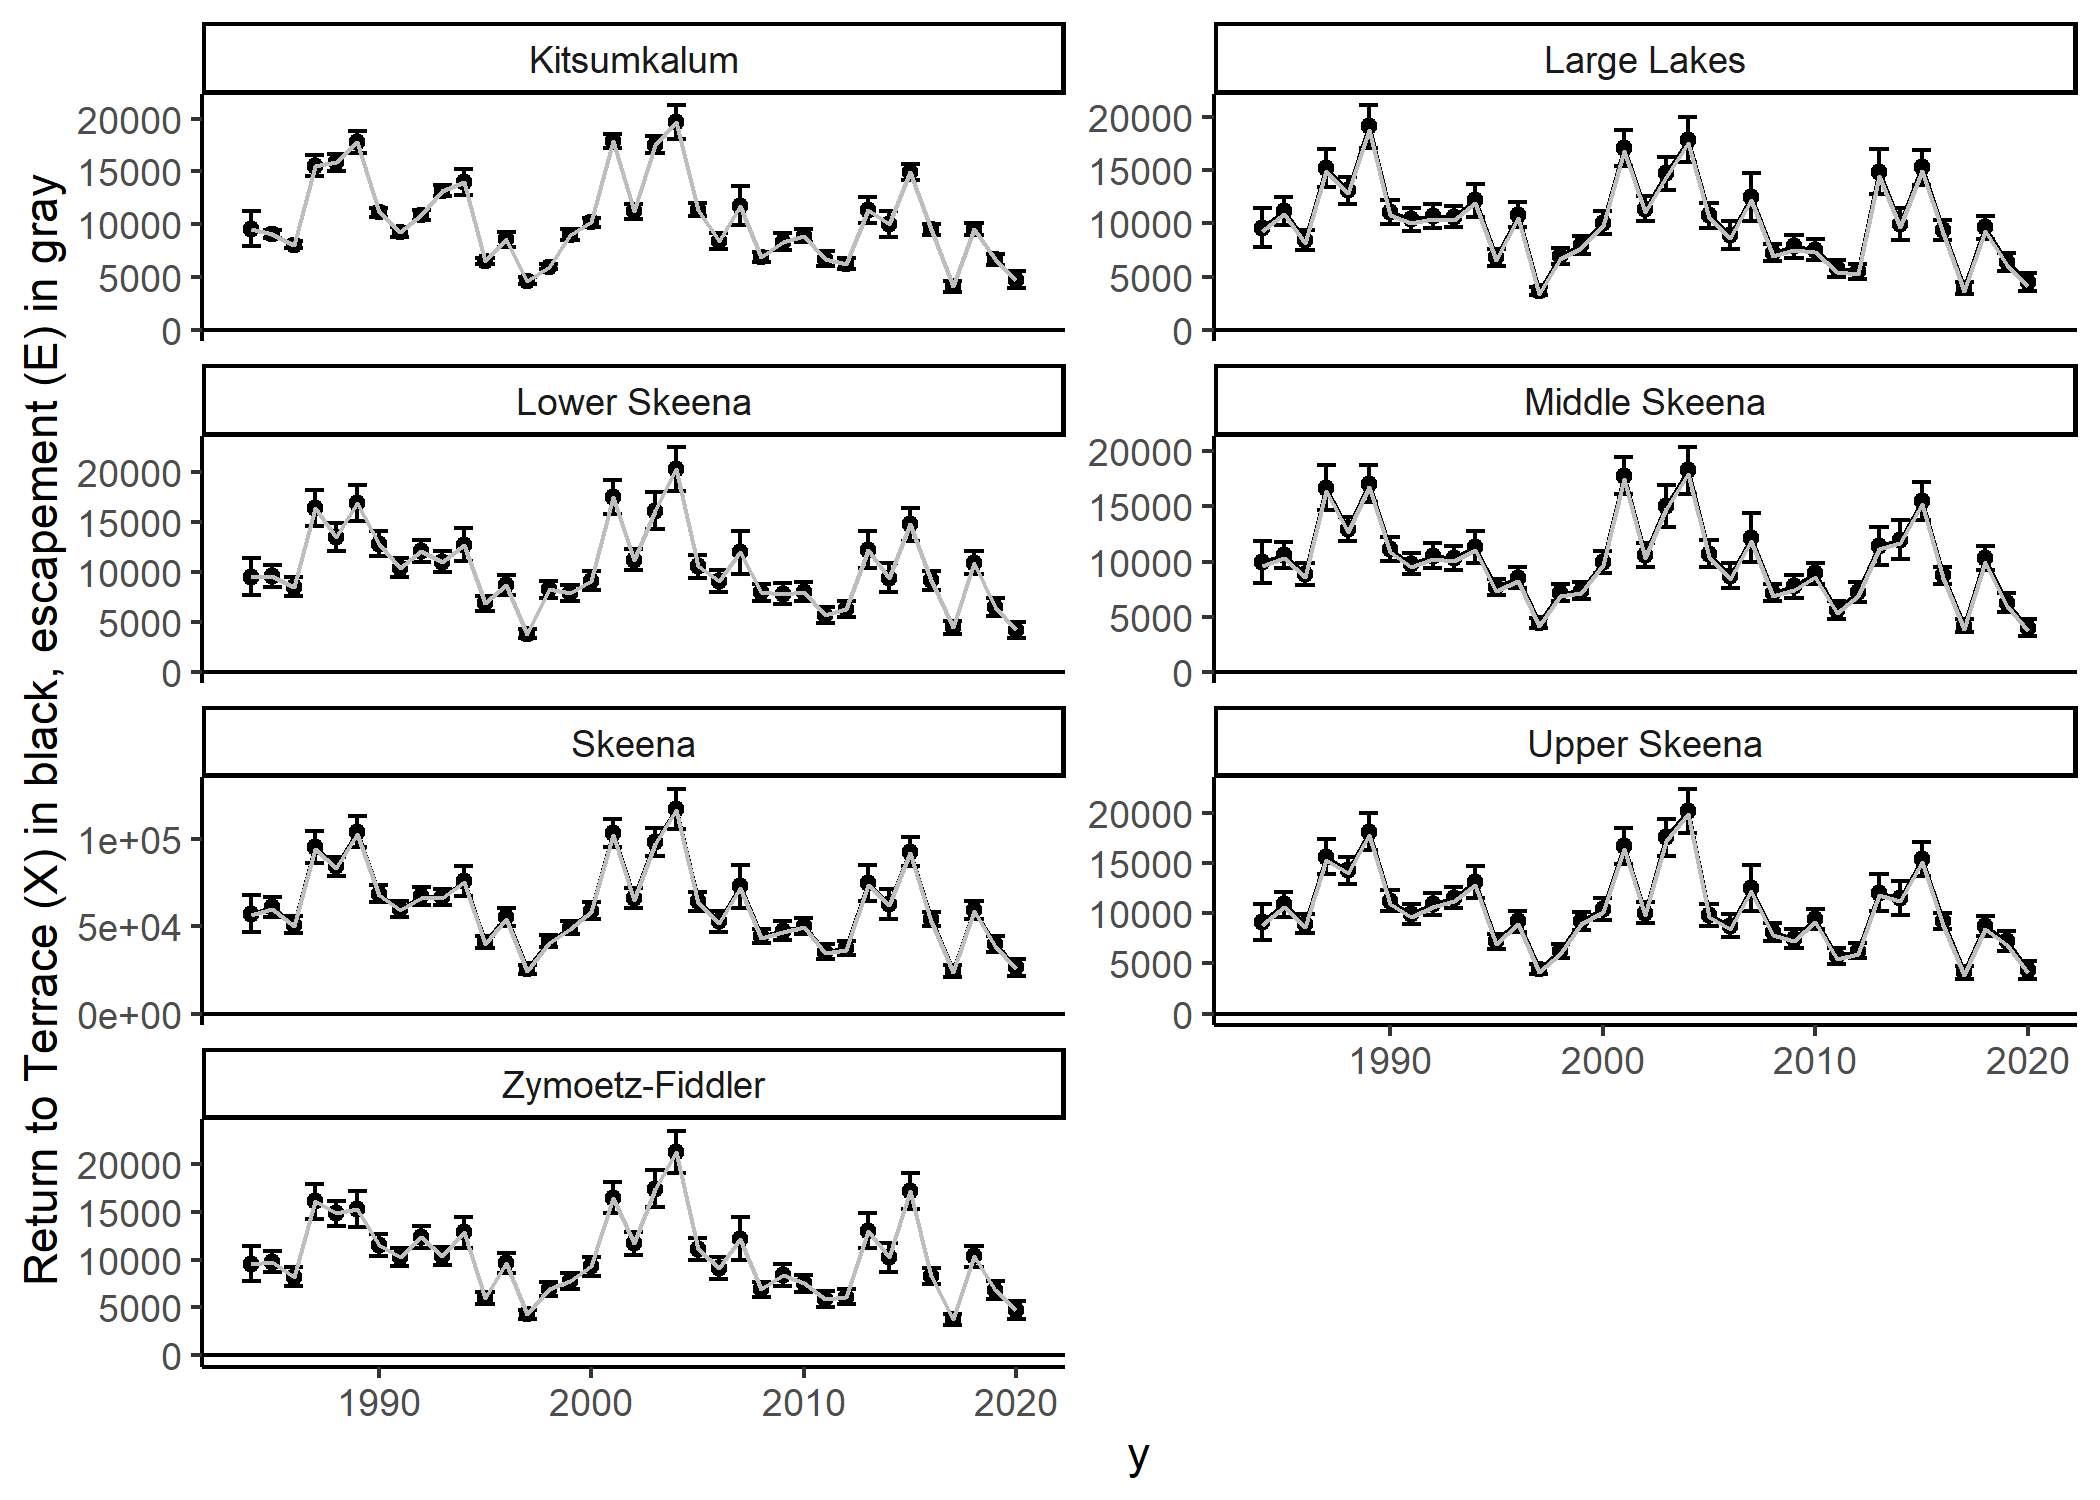
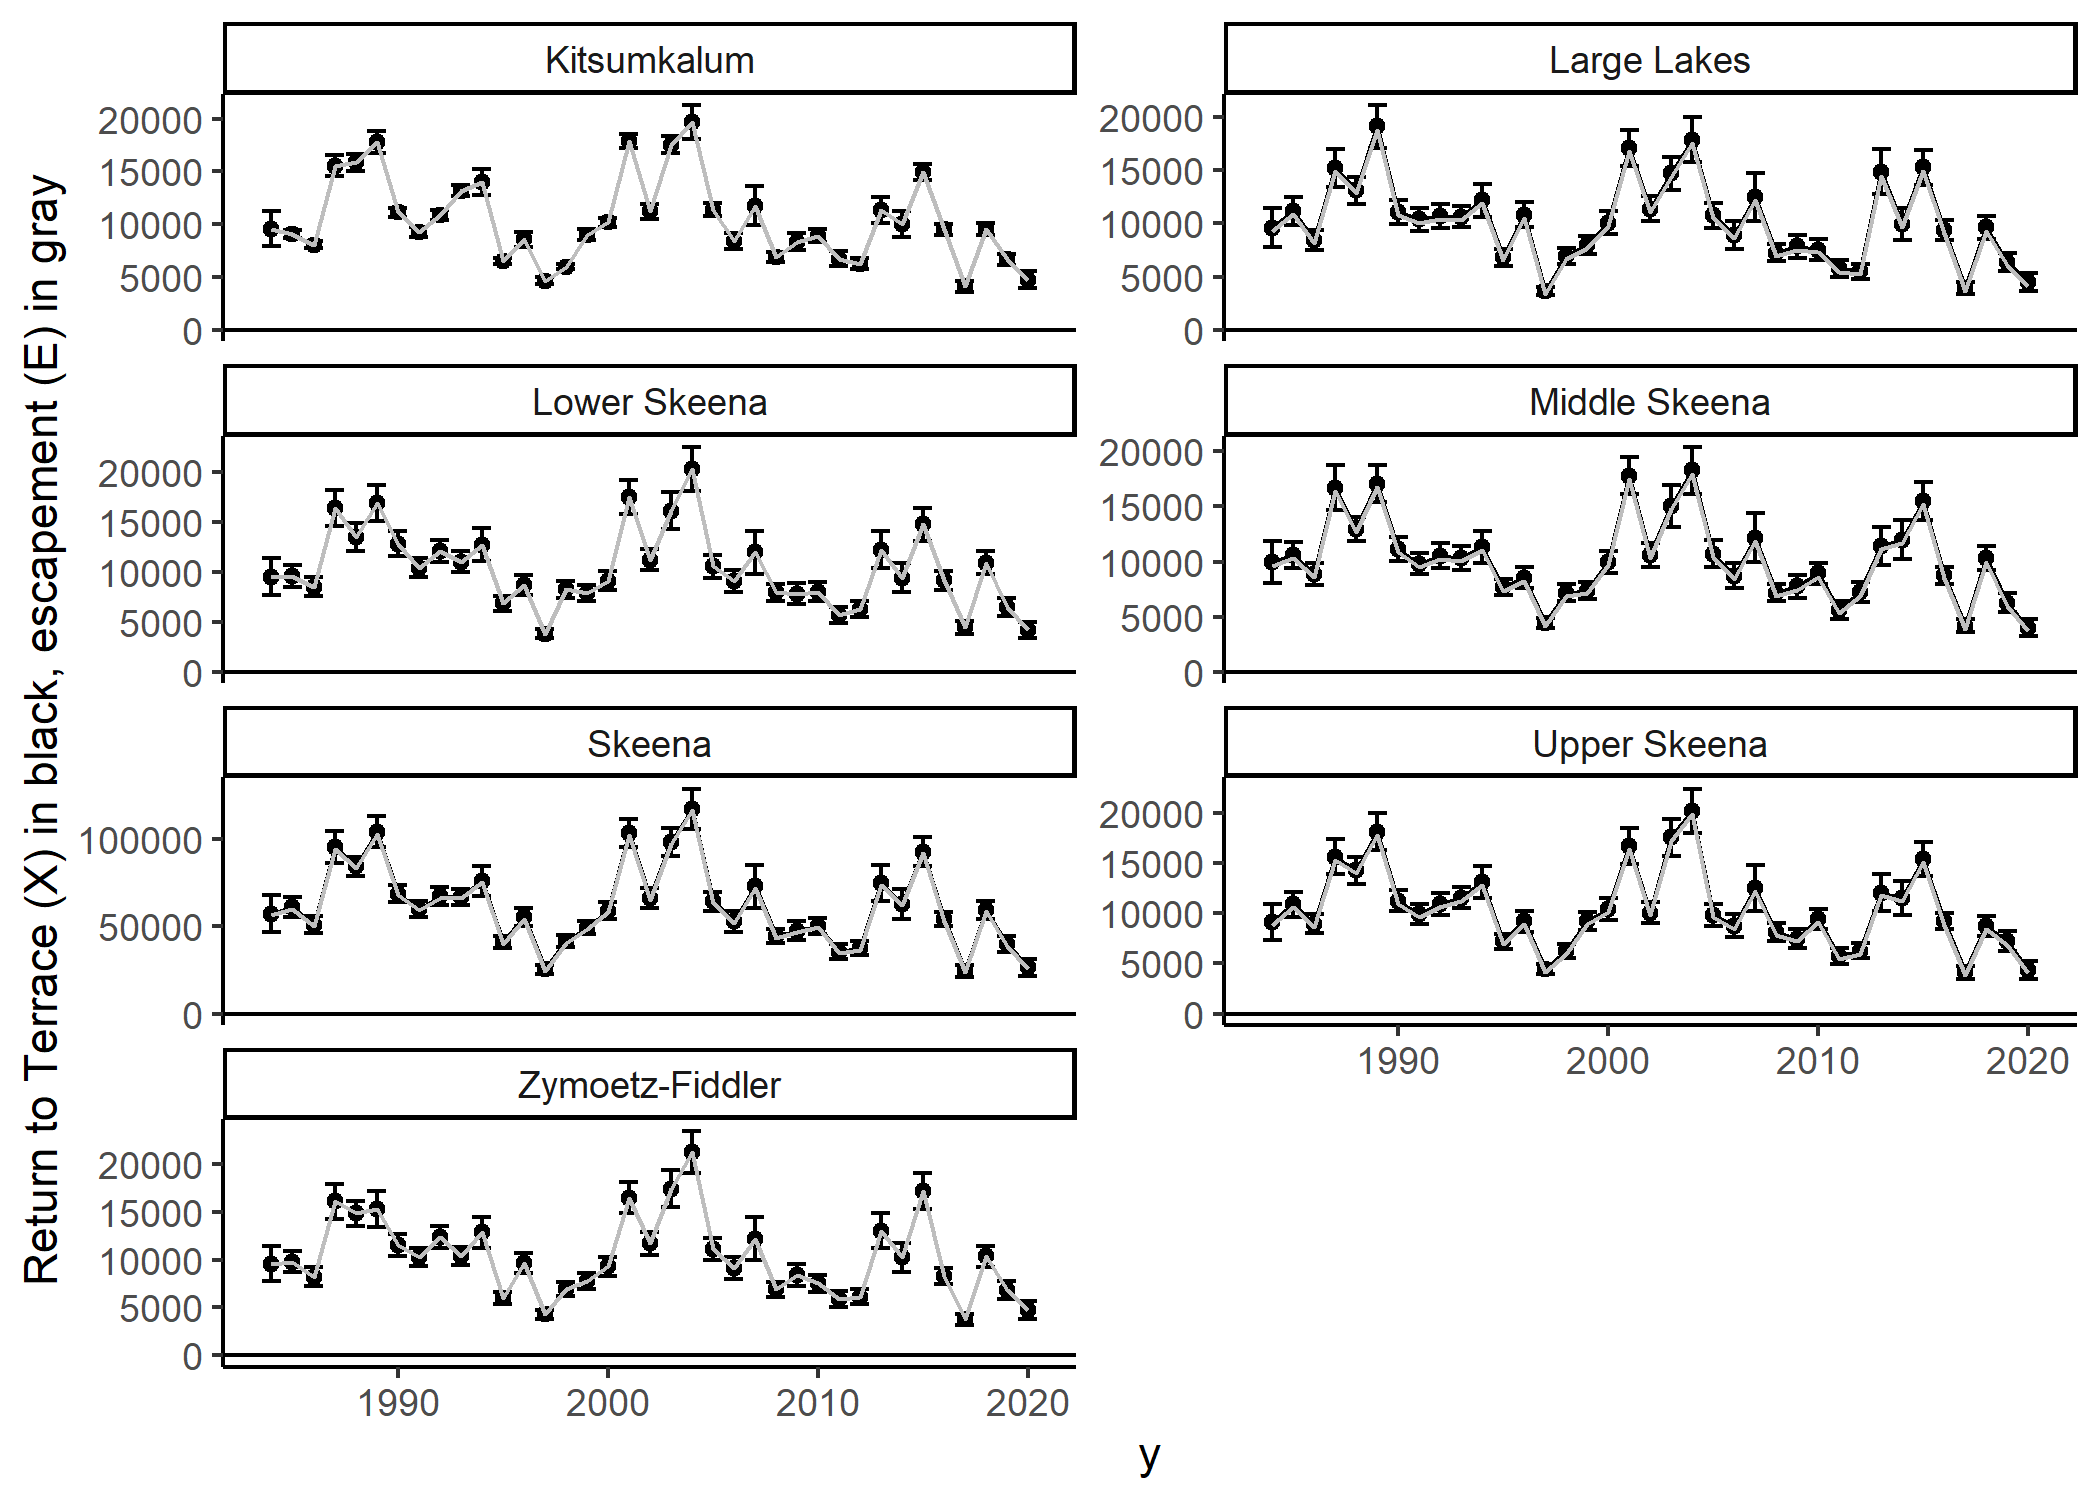
Change options to remove scientific notation on y axis

diff --git a/README.md b/README.md
@@ -74,6 +74,8 @@ library(skrunchy)
 #> here() starts at C:/github/skrunchy
 library(ggplot2)
 library(latex2exp)
+options(scipen = 999)
+
 
 P_tilde <- get_P_tilde(P = ex_P, sigma_P = ex_sigma_P, G = ex_G)
 
